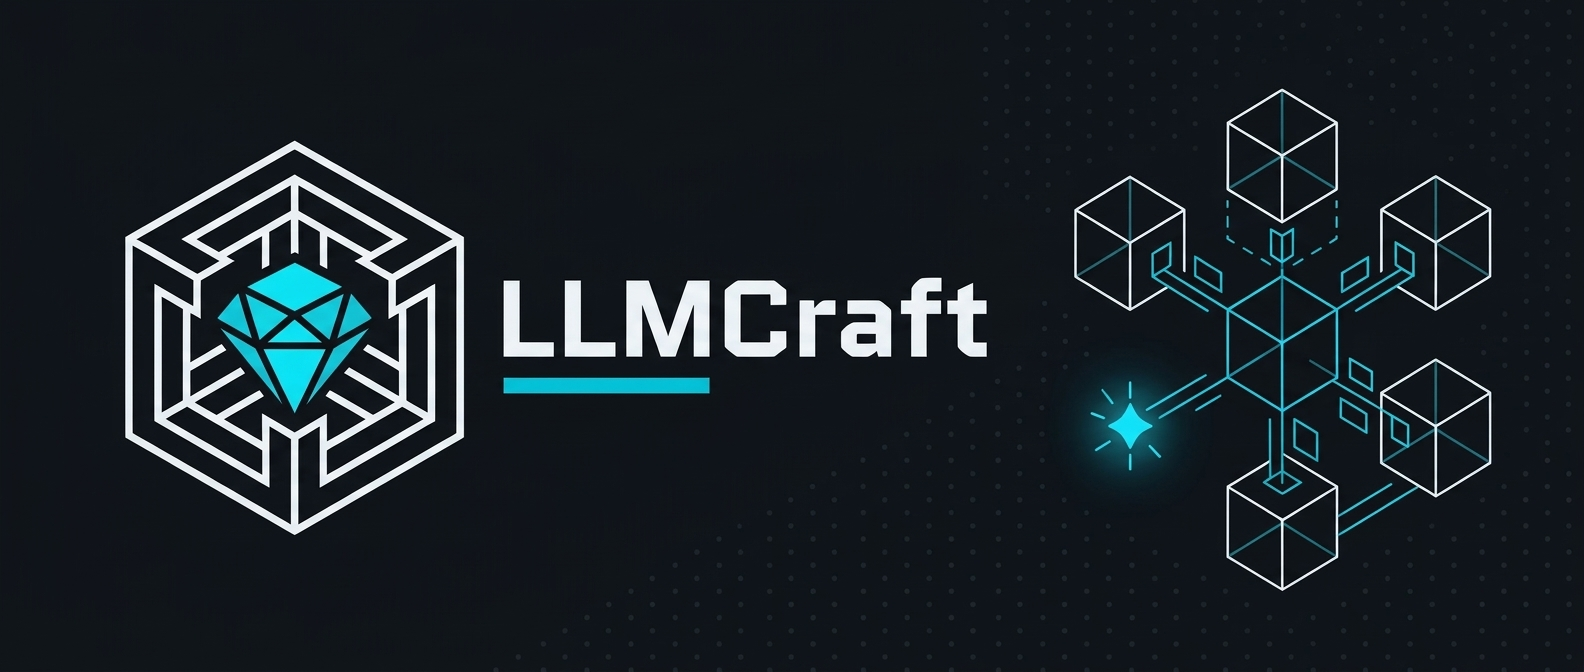
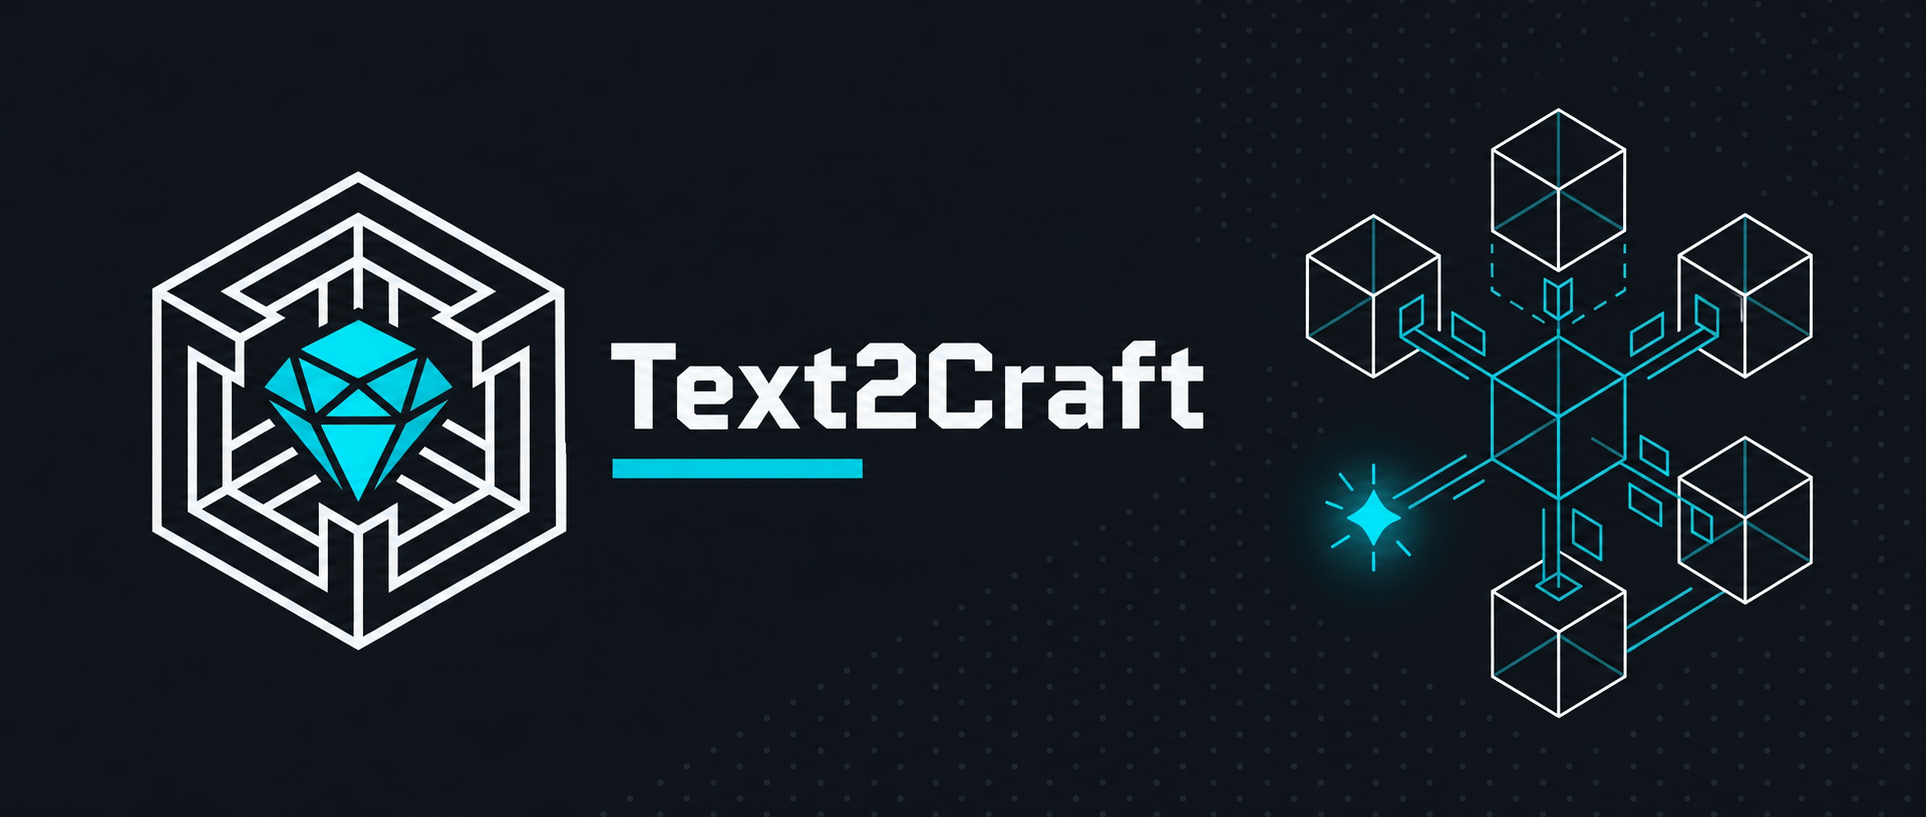
Rebrand the mod as Text2Craft

diff --git a/src/main/java/io/github/dzotyara/llmcraft/StudioClient.java b/src/main/java/io/github/dzotyara/llmcraft/StudioClient.java
@@ -21,6 +21,7 @@ import net.minecraft.registry.entry.RegistryEntryList;
 import net.minecraft.resource.DataConfiguration;
 import net.minecraft.text.Text;
 import net.minecraft.util.ActionResult;
+import net.minecraft.util.path.SymlinkValidationException;
 import net.minecraft.world.Difficulty;
 import net.minecraft.world.GameMode;
 import net.minecraft.world.GameRules;
@@ -33,13 +34,16 @@ import net.minecraft.world.gen.chunk.FlatChunkGeneratorConfig;
 import net.minecraft.world.gen.chunk.FlatChunkGeneratorLayer;
 import net.minecraft.world.level.LevelInfo;
 import org.lwjgl.glfw.GLFW;
+import org.slf4j.LoggerFactory;
 
+import java.io.IOException;
 import java.util.List;
 import java.util.Optional;
 import java.util.function.Consumer;
 import net.minecraft.server.network.ServerPlayerEntity;
 
 public final class StudioClient implements ClientModInitializer {
+    private static final String STUDIO_NAME = "Text2Craft Studio";
     private static final StudioScreen.Session SESSION = new StudioScreen.Session();
     private boolean guideShown;
 
@@ -50,7 +54,7 @@ public final class StudioClient implements ClientModInitializer {
                 InputUtil.Type.KEYSYM, GLFW.GLFW_KEY_F8, "category.llmcraft"));
         ScreenEvents.AFTER_INIT.register((client, screen, width, height) -> {
             if (screen instanceof TitleScreen) {
-                Screens.getButtons(screen).add(ButtonWidget.builder(Text.literal("✦ LLMCraft Studio"),
+                Screens.getButtons(screen).add(ButtonWidget.builder(Text.literal("✦ " + STUDIO_NAME),
                                 button -> openWorld(client, screen))
                         .dimensions(8, height - 30, 122, 20).build());
                 Screens.getButtons(screen).add(ButtonWidget.builder(Text.literal("Guide"),
@@ -114,6 +118,13 @@ public final class StudioClient implements ClientModInitializer {
     private static void openWorld(MinecraftClient client, Screen parent) {
         var loader = client.createIntegratedServerLoader();
         if (client.getLevelStorage().levelExists(LlmCraft.STUDIO_SAVE)) {
+            try (var session = client.getLevelStorage().createSession(LlmCraft.STUDIO_SAVE)) {
+                if ("LLMCraft Studio".equals(session.getLevelSummary(session.readLevelProperties()).getDisplayName())) {
+                    session.save(STUDIO_NAME);
+                }
+            } catch (IOException | SymlinkValidationException e) {
+                LoggerFactory.getLogger("Text2Craft").warn("Could not update the Studio display name", e);
+            }
             loader.start(LlmCraft.STUDIO_SAVE, () -> client.setScreen(parent));
             return;
         }
@@ -122,7 +133,7 @@ public final class StudioClient implements ClientModInitializer {
         rules.get(GameRules.DO_MOB_SPAWNING).set(false, null);
         rules.get(GameRules.DO_DAYLIGHT_CYCLE).set(false, null);
         rules.get(GameRules.SPAWN_RADIUS).set(0, null);
-        LevelInfo info = new LevelInfo("LLMCraft Studio", GameMode.CREATIVE, false, Difficulty.NORMAL,
+        LevelInfo info = new LevelInfo(STUDIO_NAME, GameMode.CREATIVE, false, Difficulty.NORMAL,
                 true, rules, DataConfiguration.SAFE_MODE);
         loader.createAndStart(LlmCraft.STUDIO_SAVE, info, new GeneratorOptions(0L, false, false), registries -> {
             var biomes = registries.get(RegistryKeys.BIOME);

diff --git a/src/main/java/io/github/dzotyara/llmcraft/LlmCraft.java b/src/main/java/io/github/dzotyara/llmcraft/LlmCraft.java
@@ -43,7 +43,7 @@ public final class LlmCraft implements ModInitializer {
         ThunderHammerItem.init();
         Registry.register(Registries.ITEM_GROUP, Identifier.of("llmcraft", "library"),
                 FabricItemGroup.builder()
-                        .displayName(Text.literal("✦ LLMCraft"))
+                        .displayName(Text.literal("✦ Text2Craft"))
                         .icon(THUNDER_HAMMER::getDefaultStack)
                         .entries((context, entries) -> {
                             entries.add(THUNDER_HAMMER);
@@ -55,14 +55,14 @@ public final class LlmCraft implements ModInitializer {
             if (isStudio(server)) StudioArena.prepare(server.getOverworld());
         });
 
-        CommandRegistrationCallback.EVENT.register((dispatcher, access, environment) ->
-                dispatcher.register(literal("llmcraft")
+        CommandRegistrationCallback.EVENT.register((dispatcher, access, environment) -> {
+            var command = dispatcher.register(literal("text2craft")
                         .then(literal("catalog").executes(context -> {
                             var source = context.getSource();
                             var entries = LIBRARY.entries();
                             source.sendFeedback(() -> Text.literal(entries.isEmpty()
-                                    ? "Keep a creation in LLMCraft Studio to add it to the catalog."
-                                    : "LLMCraft catalog. Use /llmcraft craft <id>."), false);
+                                    ? "Keep a creation in Text2Craft Studio to add it to the catalog."
+                                    : "Text2Craft catalog. Use /text2craft craft <id>."), false);
                             entries.forEach((id, blueprint) -> source.sendFeedback(() -> Text.literal(
                                     id + " — " + blueprint.name() + " (" + cost(blueprint) + " amethyst shards)"),
                                     false));
@@ -77,7 +77,9 @@ public final class LlmCraft implements ModInitializer {
                                 .then(argument("id", StringArgumentType.word())
                                         .suggests((context, builder) -> suggestions(builder))
                                         .executes(context -> deliver(context.getSource(),
-                                                StringArgumentType.getString(context, "id"), false))))));
+                                                StringArgumentType.getString(context, "id"), false)))));
+            dispatcher.register(literal("llmcraft").redirect(command));
+        });
     }
 
     static boolean isStudio(MinecraftServer server) {
@@ -98,7 +100,7 @@ public final class LlmCraft implements ModInitializer {
         ServerPlayerEntity player = source.getPlayerOrThrow();
         Blueprint blueprint = LIBRARY.entries().get(id);
         if (blueprint == null) {
-            source.sendError(Text.literal("Unknown LLMCraft creation."));
+            source.sendError(Text.literal("Unknown Text2Craft creation."));
             return 0;
         }
         var inventory = player.getInventory();

diff --git a/src/main/java/io/github/dzotyara/llmcraft/StructurePlacement.java b/src/main/java/io/github/dzotyara/llmcraft/StructurePlacement.java
@@ -261,7 +261,7 @@ final class StructurePlacement {
             }
             return true;
         } catch (RuntimeException failure) {
-            LOGGER.error("LLMCraft block update failed; restoring previous blocks", failure);
+            LOGGER.error("Text2Craft block update failed; restoring previous blocks", failure);
         }
 
         for (BlockPos pos : attempted.reversed()) {
@@ -270,10 +270,10 @@ final class StructurePlacement {
                 if (world.getBlockState(pos) != originalState
                         && (!world.setBlockState(pos, originalState, WRITE_FLAGS)
                         || world.getBlockState(pos) != originalState)) {
-                    LOGGER.error("LLMCraft could not restore block at {}", pos.toShortString());
+                    LOGGER.error("Text2Craft could not restore block at {}", pos.toShortString());
                 }
             } catch (RuntimeException failure) {
-                LOGGER.error("LLMCraft could not restore block at " + pos.toShortString(), failure);
+                LOGGER.error("Text2Craft could not restore block at " + pos.toShortString(), failure);
             }
         }
         return false;

diff --git a/src/main/java/io/github/dzotyara/llmcraft/Library.java b/src/main/java/io/github/dzotyara/llmcraft/Library.java
@@ -30,7 +30,7 @@ final class Library<T> {
             files.filter(path -> path.getFileName().toString().matches("[a-z0-9-]+\\.json"))
                     .sorted().forEach(this::load);
         } catch (IOException e) {
-            LoggerFactory.getLogger("LLMCraft").warn("Could not read the local library", e);
+            LoggerFactory.getLogger("Text2Craft").warn("Could not read the local library", e);
         }
     }
 
@@ -40,7 +40,7 @@ final class Library<T> {
             if (Files.size(file) > 262_144) throw new IOException("Blueprint is too large");
             entries.put(filename.substring(0, filename.length() - 5), parse.apply(Files.readString(file)));
         } catch (IOException | IllegalArgumentException e) {
-            LoggerFactory.getLogger("LLMCraft").warn("Could not load {}", filename, e);
+            LoggerFactory.getLogger("Text2Craft").warn("Could not load {}", filename, e);
         }
     }
 

diff --git a/src/main/java/io/github/dzotyara/llmcraft/StartupGuide.java b/src/main/java/io/github/dzotyara/llmcraft/StartupGuide.java
@@ -21,7 +21,7 @@ final class StartupGuide extends Screen {
     private int panelWidth;
 
     StartupGuide(Screen titleScreen, StudioScreen.Session session, Runnable openStudio, String consoleKey) {
-        super(Text.literal("Welcome to LLMCraft"));
+        super(Text.literal("Welcome to Text2Craft"));
         this.titleScreen = titleScreen;
         this.session = session;
         this.openStudio = openStudio;
@@ -68,7 +68,7 @@ final class StartupGuide extends Screen {
         line(context, "Make a structure from a prompt with local Ollama.", 51);
         line(context, "Aim the preview. " + client.options.attackKey.getBoundKeyLocalizedText().getString()
                 + " places it.", 64);
-        line(context, consoleKey + " opens LLMCraft while playing.", 77);
+        line(context, consoleKey + " opens Text2Craft while playing.", 77);
     }
 
     private void line(DrawContext context, String text, int y) {

diff --git a/src/main/java/io/github/dzotyara/llmcraft/Blueprint.java b/src/main/java/io/github/dzotyara/llmcraft/Blueprint.java
@@ -26,7 +26,7 @@ record Blueprint(String name, Kind kind, String base, String action, int power) 
     );
 
     static final String INSTRUCTIONS = """
-            Generate one JSON object for the Minecraft mod LLMCraft. Follow one of these examples:
+            Generate one JSON object for the Minecraft mod Text2Craft. Follow one of these examples:
             {"name":"Lightning Hammer","kind":"item","base":"axe","action":"shock","power":3}
             {"name":"Floating Tower","kind":"structure","base":"prismarine","action":"tower","power":4}
             Name: 1 to 48 characters. Power: integer 1 to 5.

diff --git a/src/main/java/io/github/dzotyara/llmcraft/StudioHud.java b/src/main/java/io/github/dzotyara/llmcraft/StudioHud.java
@@ -28,7 +28,7 @@ final class StudioHud {
         }
 
         int available = context.getScaledWindowWidth() - 2 * MARGIN;
-        String title = studio ? "LLMCraft Studio" : "LLMCraft";
+        String title = studio ? "Text2Craft Studio" : "Text2Craft";
         int textWidth = client.textRenderer.getWidth(title);
         for (String instruction : instructions) textWidth = Math.max(textWidth, client.textRenderer.getWidth(instruction));
         int cardWidth = Math.min(available, textWidth + 14);

diff --git a/src/main/java/io/github/dzotyara/llmcraft/StudioScreen.java b/src/main/java/io/github/dzotyara/llmcraft/StudioScreen.java
@@ -195,7 +195,7 @@ final class StudioScreen extends Screen {
 
     private StudioScreen(Session session, Panel panel, int page, Screen returnScreen) {
         super(Text.literal(switch (panel) {
-            case STUDIO -> "LLMCraft Studio";
+            case STUDIO -> "Text2Craft Studio";
             case BUILD -> "Build";
             case MODEL -> "Ollama Setup";
             case MODELS -> "Choose a Model";

diff --git a/src/main/java/io/github/dzotyara/llmcraft/OllamaRuntime.java b/src/main/java/io/github/dzotyara/llmcraft/OllamaRuntime.java
@@ -42,7 +42,7 @@ final class OllamaRuntime {
 
     OllamaRuntime(Path root) {
         this.root = root.toAbsolutePath();
-        Runtime.getRuntime().addShutdownHook(new Thread(this::stop, "LLMCraft Ollama shutdown"));
+        Runtime.getRuntime().addShutdownHook(new Thread(this::stop, "Text2Craft Ollama shutdown"));
     }
 
     static Package platform(String os, String architecture) {

diff --git a/README.md b/README.md
@@ -1,22 +1,22 @@
-<img src="docs/banner.png" alt="LLMCraft" width="100%" />
+<img src="docs/banner.png" alt="Text2Craft" width="100%" />
 
-# LLMCraft
+# Text2Craft
 
 Describe a new adventure for your single-player Minecraft world.
 
-LLMCraft adds a separate Studio world to Minecraft. Try the Thunder Hammer, describe a structure, and place the geometry generated by your local Ollama model.
+Text2Craft adds a separate Studio world to Minecraft. Try the Thunder Hammer, describe a structure, and place the geometry generated by your local Ollama model.
 
 ## Easy Setup
 
 **Play with the official launcher**
 
-1. Install Fabric Loader for Minecraft Java Edition **1.21.1**. Put the matching **Fabric API** JAR and the **LLMCraft** JAR in that profile's `mods` folder. Build LLMCraft from source below if you need a JAR. [Full launcher instructions](#install-with-the-official-launcher)
+1. Install Fabric Loader for Minecraft Java Edition **1.21.1**. Put the matching **Fabric API** JAR and the **Text2Craft** JAR in that profile's `mods` folder. Build Text2Craft from source below if you need a JAR. [Full launcher instructions](#install-with-the-official-launcher)
 2. Start the Fabric profile. In the welcome guide, choose **Set Up Ollama** for local generation or **Open Studio** to try the hammer. [Model setup](#set-up-local-generation)
 3. In the Studio, press **F8**. Choose **Get Hammer** or open **Build** after model setup. [First structure](#build-your-first-structure)
 
 **Build from the repository**
 
-Install **JDK 21**, clone this repository, and run these commands from its root. The build puts the JAR in `build/libs`. The second command opens a development client with **LLMCraft Studio** in the main menu.
+Install **JDK 21**, clone this repository, and run these commands from its root. The build puts the JAR in `build/libs`. The second command opens a development client with **Text2Craft Studio** in the main menu.
 
 | Platform | Build | Open the development client |
 | --- | --- | --- |
@@ -27,15 +27,15 @@ Install **JDK 21**, clone this repository, and run these commands from its root.
 
 - Minecraft Java Edition **1.21.1**, Java **21**, and Fabric Loader **0.16.10** or later for that Minecraft version.
 - Fabric API for **1.21.1**. Development tests use release **0.116.1+1.21.1**. [Fabric API download](https://modrinth.com/mod/fabric-api/version/0.116.1%2B1.21.1)
-- A running local Ollama service for generating new structures. LLMCraft can set one up from Minecraft. The hammer and saved structures are available offline.
+- A running local Ollama service for generating new structures. Text2Craft can set one up from Minecraft. The hammer and saved structures are available offline.
 - Structure placement is available in local single-player worlds.
 
 ## Install with the official launcher
 
 1. Close Minecraft and its launcher. Run the Fabric Installer, choose Minecraft **1.21.1**, and enable **Create Profile**. [Fabric Installer](https://fabricmc.net/use/installer/) · [Fabric installation guide](https://docs.fabricmc.net/players/installing-fabric/)
 2. Open Minecraft Launcher and go to **Minecraft Java Edition → Installations**. Edit the Fabric 1.21.1 installation. Use **Game Directory** if you want this profile to have its own mods and saves.
-3. Locate the chosen game directory and create a `mods` folder if needed. Put the Fabric API JAR and the LLMCraft JAR together in that folder. Get LLMCraft from [GitHub Releases](https://github.com/dzotyara/llmcraft/releases) or [build it from source](#build-from-source) if a release has yet to be published.
-4. Select the Fabric 1.21.1 profile and click **Play**. The main menu should show **LLMCraft Studio** and **Guide**.
+3. Locate the chosen game directory and create a `mods` folder if needed. Put the Fabric API JAR and the Text2Craft JAR together in that folder. Get Text2Craft from [GitHub Releases](https://github.com/dzotyara/llmcraft/releases) or [build it from source](#build-from-source) if a release has yet to be published.
+4. Select the Fabric 1.21.1 profile and click **Play**. The main menu should show **Text2Craft Studio** and **Guide**.
 
 If you use the default game directory, the location is:
 
@@ -49,7 +49,7 @@ If you use the default game directory, the location is:
 
 ## Set up local generation
 
-On the first visit to the Minecraft main menu, the LLMCraft welcome screen offers **Open Studio**, **Set Up Ollama**, and **Later**. The **Guide** button reopens it any time.
+On the first visit to the Minecraft main menu, the Text2Craft welcome screen offers **Open Studio**, **Set Up Ollama**, and **Later**. The **Guide** button reopens it any time.
 
 1. Open **Set Up Ollama → Choose Model**. The list marks detected local models as **Installed**. The download catalog lists the size of each model.
 2. If Ollama is running, choose an installed model or use **Download Model**. If Ollama is unavailable, select **Install Ollama & Model**. The setup screen shows the archive download, verification, extraction, service startup, and model download as they happen.
@@ -59,23 +59,23 @@ On the first visit to the Minecraft main menu, the LLMCraft welcome screen offer
 | --- | --- | --- |
 | 1.5B | 986 MB | Try a small structure with a smaller download. |
 | 3B | 1.9 GB | Try a model between 1.5B and 7B. |
-| 7B | 4.7 GB | The baseline model for LLMCraft's prompt-quality checks. |
+| 7B | 4.7 GB | The baseline model for Text2Craft's prompt-quality checks. |
 
-The listed sizes cover model files. If LLMCraft needs to install Ollama, the setup screen also shows its package size. Hardware, prompt length, and whether the model is already loaded affect generation time. [Ollama model catalog](https://ollama.com/library/qwen2.5-coder)
+The listed sizes cover model files. If Text2Craft needs to install Ollama, the setup screen also shows its package size. Hardware, prompt length, and whether the model is already loaded affect generation time. [Ollama model catalog](https://ollama.com/library/qwen2.5-coder)
 
 The built-in installer offers packages for Windows, macOS, and Linux on x64 and ARM64. It has been tested on Windows x64. Linux managed setup uses `tar` with Zstandard support. A managed install starts its own loopback service and stops it when Minecraft exits.
 
-For a separately installed Ollama, start the application or run `ollama serve`, then use **Check Connection**. LLMCraft checks the default local address `127.0.0.1:11434`. [Official Ollama installer](https://ollama.com/download)
+For a separately installed Ollama, start the application or run `ollama serve`, then use **Check Connection**. Text2Craft checks the default local address `127.0.0.1:11434`. [Official Ollama installer](https://ollama.com/download)
 
 ## Build your first structure
 
-1. Open **LLMCraft Studio** from the main menu. Right-click the amethyst console or press **F8**.
+1. Open **Text2Craft Studio** from the main menu. Right-click the amethyst console or press **F8**.
 2. Select **Get Hammer**. Left-click a target to strike it with an electrical hit. Right-click to throw the hammer and watch it return.
 3. Open **Build** and try this prompt:
 
    > Build a small white quartz gateway, 5 blocks wide, 5 blocks tall and one block deep, with a clear two-block-tall central passage and a sea lantern at the top.
 
-4. Click **Generate**. The local model produces block geometry and LLMCraft validates it before showing the translucent silhouette. You can cancel an active request with **Esc**.
+4. Click **Generate**. The local model produces block geometry and Text2Craft validates it before showing the translucent silhouette. You can cancel an active request with **Esc**.
 5. Aim at the construction plot. Press **R** to rotate and left-click to place. A red preview marks a placement problem. The HUD shows the reason or the available controls.
 6. Return to **Build → Save to Library** to keep the blueprint. **Undo Placement** reverses the last successful placement in the current world and session if it can safely restore the blocks.
 
@@ -88,7 +88,7 @@ Open an existing single-player save, press **F8**, and select a saved blueprint 
 - **Creative** places saved structures without spending blocks.
 - **Survival** uses the exact block types and quantities from your inventory. Press **M** while previewing to see the full material list. Placement is refused while materials are missing or the space is blocked. A successful undo restores the spent materials if there is room for the refund.
 
-The **Thunder Hammer** is in the **LLMCraft** Creative tab. In Survival, craft it in a 3×3 grid:
+The **Thunder Hammer** is in the **Text2Craft** Creative tab. In Survival, craft it in a 3×3 grid:
 
 ```text
 Iron   Amethyst shard   Iron
@@ -106,7 +106,7 @@ Iron   Copper ingot     Iron
 | R | Rotate an active preview. |
 | M | Open the material list in Survival while previewing. |
 | Esc | Cancel active generation or placement preview. |
-| F1 | Toggle Minecraft's HUD, including the LLMCraft hints. |
+| F1 | Toggle Minecraft's HUD, including the Text2Craft hints. |
 
 The in-game guide follows your keybinds under **Options → Controls → Key Binds**.
 
@@ -114,17 +114,17 @@ The in-game guide follows your keybinds under **Options → Controls → Key Bin
 
 | What you see | What to check |
 | --- | --- |
-| **LLMCraft Studio** is missing | Confirm the launcher is running Fabric for Java Edition **1.21.1**. Confirm both JARs are in the selected profile's `mods` folder. |
-| Fabric reports a dependency or version error | Check the Minecraft, Fabric Loader, Fabric API, and LLMCraft versions. Keep one LLMCraft JAR active per profile. |
+| **Text2Craft Studio** is missing | Confirm the launcher is running Fabric for Java Edition **1.21.1**. Confirm both JARs are in the selected profile's `mods` folder. |
+| Fabric reports a dependency or version error | Check the Minecraft, Fabric Loader, Fabric API, and Text2Craft versions. Keep one Text2Craft JAR active per profile. |
 | Ollama setup fails | Check available disk space and the status shown in **Ollama Setup**. For a managed service that fails to start, inspect `config/llmcraft/ollama/server.log`. For an external installation, start Ollama and use **Check Connection**. |
 | Linux cannot unpack Ollama | Check that your `tar` supports Zstandard, or use **Official Installer** and connect to the running service. |
-| A result is rejected | Try a smaller structure with a clearer palette and fewer details. LLMCraft only previews geometry that passes its limits. |
+| A result is rejected | Try a smaller structure with a clearer palette and fewer details. Text2Craft only previews geometry that passes its limits. |
 | The preview is red | Move the silhouette away from existing blocks. In the Studio, keep the entire structure inside the plot. In Survival, press **M** to check materials. |
 | Undo is refused | Check whether placed blocks were edited or the refunded materials fit in your inventory. Undo history lasts for the current game session. |
 
-LLMCraft data lives inside the selected game directory. Saved blueprints are under `config/llmcraft/structures`. The managed service and its model cache are under `config/llmcraft/ollama`. Back up the blueprints and the world's save separately if you want to keep both the reusable designs and blocks already placed.
+Text2Craft data lives inside the selected game directory. Saved blueprints are under `config/llmcraft/structures`. The managed service and its model cache are under `config/llmcraft/ollama`. Back up the blueprints and the world's save separately if you want to keep both the reusable designs and blocks already placed.
 
-To update LLMCraft, close Minecraft and replace the older LLMCraft JAR in that profile's `mods` folder. Keep the same game directory to retain worlds, blueprints, and Ollama downloads.
+To update Text2Craft, close Minecraft and replace the older JAR in that profile's `mods` folder. If upgrading from LLMCraft, remove its JAR before adding `text2craft-*.jar`. Keep the same game directory to retain worlds, blueprints, and Ollama downloads.
 
 ## Build from source
 
